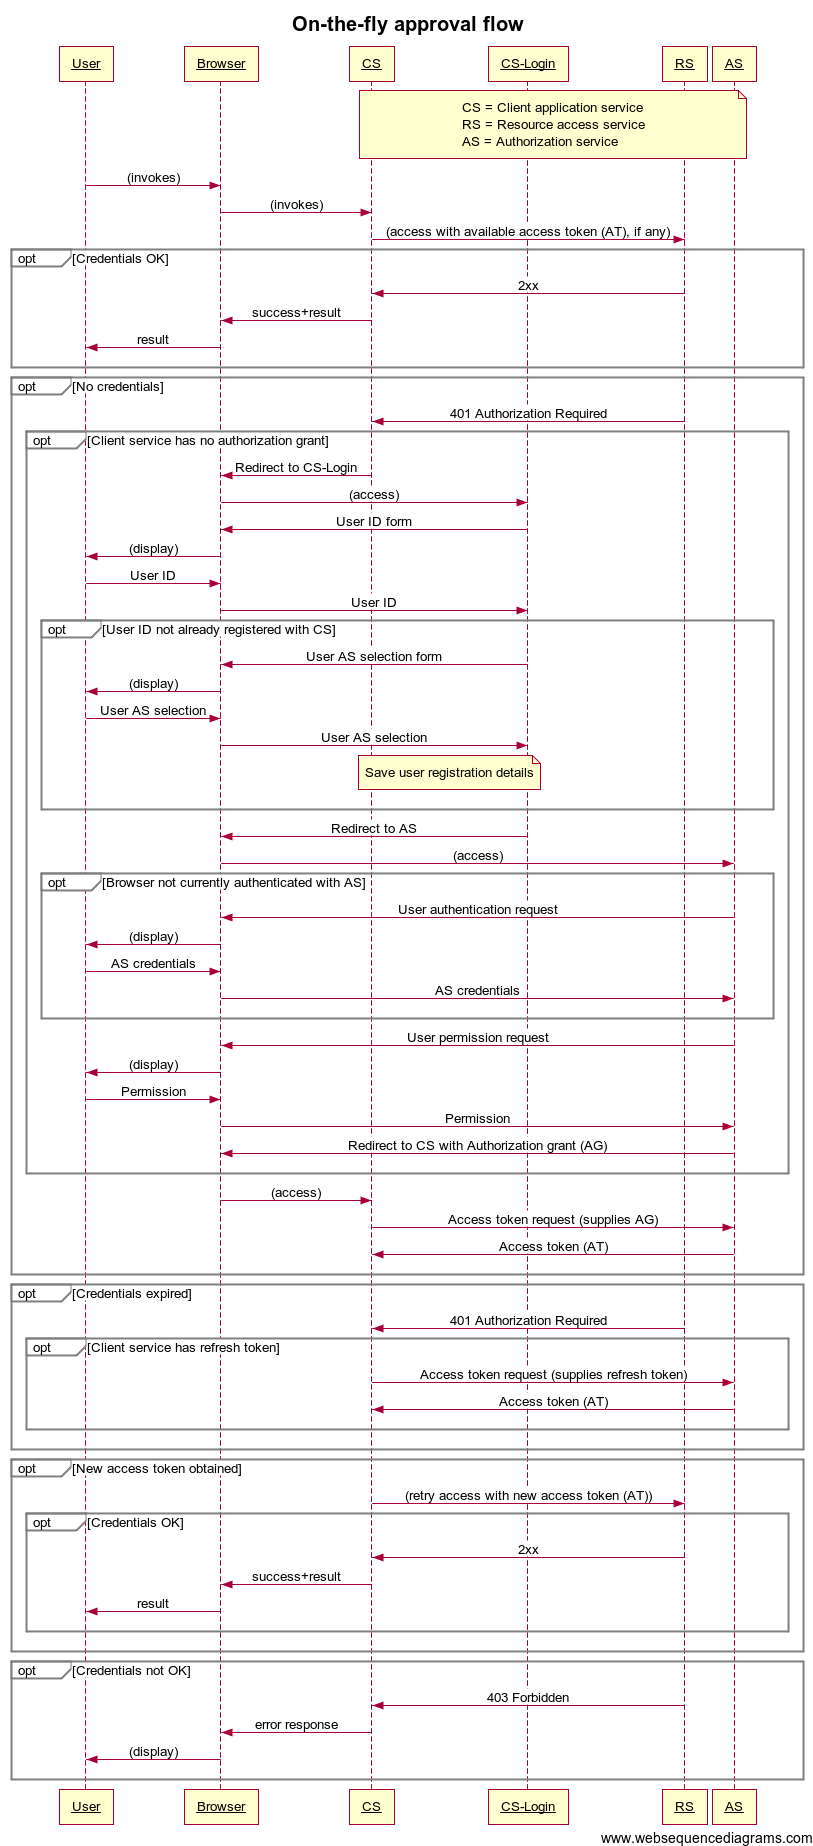
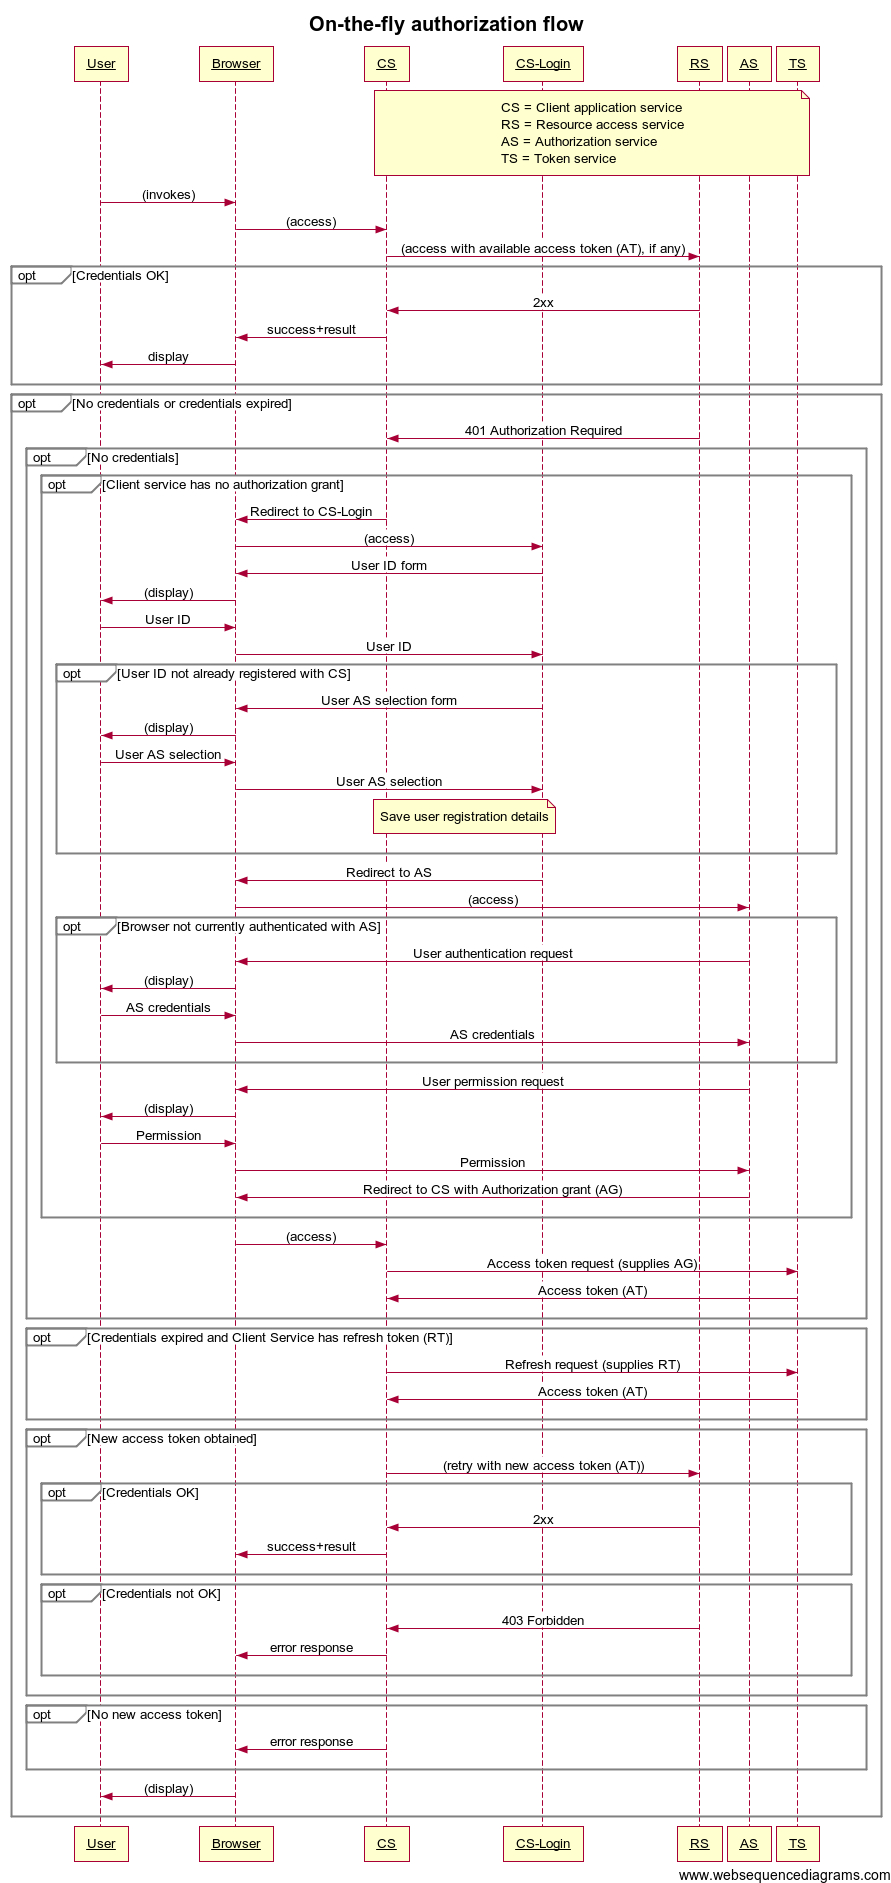
Add pre-authorization and revise on-the-fly flow sequence diagram

diff --git a/notes/authentication-and-authorization.md b/notes/authentication-and-authorization.md
@@ -1,5 +1,204 @@
+# On-the-fly authorization flow
+
+This sequence applies when access authorization is requested on-the-fly as a resource is accessed.  As such, it works only when the user is accessing the resource via a browser.  This is built on a standard OAuth2 flow combining authentication with authorization.
+
+![On-the-fly authorization flow sequence diagram](figures/on-the-fly-auth-flow.png "On-the-fly authorization flow")
+
+Sequence diagram definition - use with https://www.websequencediagrams.com/
+
+    title On-the-fly authorization flow
+
+    participant User
+    participant Browser
+    participant CS
+    participant CS-Login
+    participant RS
+    participant AS
+    participant TS
+
+    note over CS, RS, AS, TS
+      CS = Client application service
+      RS = Resource access service
+      AS = Authorization service
+      TS = Token service
+    end note
+
+    User->Browser: (invokes)
+    Browser->CS: (access)
+
+    CS->RS: (access with available access token (AT), if any)
+    opt Credentials OK
+      RS->CS: 2xx
+      CS->Browser: success+result
+      Browser->User: display
+    end
+
+    opt No credentials or credentials expired
+      RS->CS: 401 Authorization Required
+
+      opt No credentials
+        opt Client service has no authorization grant
+          CS->Browser: Redirect to CS-Login
+          Browser->CS-Login: (access)
+          CS-Login->Browser: User ID form
+          Browser->User: (display)
+          User->Browser: User ID
+          Browser->CS-Login: User ID
+          opt User ID not already registered with CS
+            CS-Login->Browser: User AS selection form
+            Browser->User: (display)
+            User->Browser: User AS selection
+            Browser->CS-Login: User AS selection
+            note over CS, CS-Login
+              Save user registration details
+            end note
+          end
+          CS-Login->Browser: Redirect to AS
+          Browser->AS: (access)
+          opt Browser not currently authenticated with AS
+            AS->Browser: User authentication request
+            Browser->User: (display)
+            User->Browser: AS credentials
+            Browser->AS: AS credentials
+          end
+          AS->Browser: User permission request
+          Browser->User: (display)
+          User->Browser: Permission
+          Browser->AS: Permission
+          AS->Browser: Redirect to CS with Authorization grant (AG)
+        end
+        Browser->CS: (access)
+        CS->TS: Access token request (supplies AG)
+        TS->CS: Access token (AT)
+      end
+
+      opt Credentials expired and Client Service has refresh token (RT)
+        CS->TS: Refresh request (supplies RT)
+        TS->CS: Access token (AT)
+      end
+
+      opt New access token obtained
+        CS->RS: (retry with new access token (AT))
+        opt Credentials OK
+          RS->CS: 2xx
+          CS->Browser: success+result
+        end
+        opt Credentials not OK
+          RS->CS: 403 Forbidden
+          CS->Browser: error response
+        end
+      end
+
+      opt No new access token
+        CS->Browser: error response
+      end
+
+    Browser->User: (display)
+    end
+
+
+# Pre-authorization flow
+
+This sequence applies when access authorization is established in advance of access to a resource.  The first part of the flow works only when the user is accessing the service using a browser.  The second part maty be cobnducted wityhout the user present.  This is built on a standard OAuth2 flow combining authentication with authorization.
+
+![Pre-authorization flow sequence diagram](figures/pre-authorization-flow.png "Pre-authorization flow")
+
+Sequence diagram definition - use with https://www.websequencediagrams.com/
+
+    title Pre-authorization flow
+
+    participant User
+    participant Browser
+    participant CS-Auth
+    participant CS-Login
+    participant CS
+    participant RS
+    participant AS
+    participant TS
+
+    note over CS-Auth, CS, RS, AS, TS
+      CS-Auth = Client pre-authorization service
+      CS = Client application service
+      RS = Resource access service
+      AS = Authorization service
+      TS = Token service
+    end note
+
+    User->Browser: (invokes)
+    Browser->CS-Auth: (access)
+
+    CS-Auth->Browser: Redirect to CS-Login
+    Browser->CS-Login: (access)
+    CS-Login->Browser: User ID form
+    Browser->User: (display)
+    User->Browser: User ID
+    Browser->CS-Login: User ID
+    opt User ID not already registered with CS
+      CS-Login->Browser: User AS selection form
+      Browser->User: (display)
+      User->Browser: User AS selection
+      Browser->CS-Login: User AS selection
+      note over CS-Auth, CS-Login
+        Save user registration details
+      end note
+    end
+    CS-Login->Browser: Redirect to AS
+    Browser->AS: (access)
+    opt Browser not currently authenticated with AS
+      AS->Browser: User authentication request
+      Browser->User: (display)
+      User->Browser: AS credentials
+      Browser->AS: AS credentials
+    end
+    AS->Browser: User permission request form
+    Browser->User: (display)
+    User->Browser: Permission
+    Browser->AS: Permission
+    AS->Browser: Redirect to CS-Auth with Authorization Grant (AG)
+    Browser->CS-Auth: (access)
+    CS-Auth->CS: AG (and client secret)
+
+    note over CS-Login, CS-Auth, CS, RS, AS
+      CS may be a non-browser application.
+      Access proceeds without requiring the user's presence
+    end note
+
+    CS->RS: (access with available access token (AT), if any)
+    opt Credentials OK
+      RS->CS: 2xx
+    end
+
+    opt No credentials or credentials expired
+      RS->CS: 401 Authorization Required
+
+      opt No credentials (AT) and have Authorization  Grant (AG)
+        CS->TS: Access token request (supplies AG)
+        TS->CS: Access token (AT)
+      end
+
+      opt Credentials expired and have refesh token
+        CS->TS: Access token request (supplies refresh token)
+        TS->CS: Access token (AT)
+      end
+
+      CS->RS: (retry access with access token (AT))
+
+      opt Credentials OK
+        RS->CS: 2xx
+      end
+
+      opt Credentials not OK
+        RS->CS: 403 Forbidden
+      end
+
+    end
+
+
+----
 
 # Approval flow
+
+@@TODO: review or remove?
 
 This flow is activated when the client needs to establish the identity and approval of a user for obtaining subsequent authorization tokens.  The identity determination uses OpenID connect mechanisms, but does not result in grant of any specific permissions as these are handled separately by the authorization flow.
 
@@ -56,6 +255,8 @@ Sequence diagram definition - use with https://www.websequencediagrams.com/
 
 
 # Authorization flow
+
+@@TODO Review or remove
 
 This flow is activated when the client needs to obtain specific access 
 permissions to a resource.  Unlike standard OAuth2 flows, this phase is 
@@ -120,100 +321,3 @@ This flow should be the same as the corresponding phase of the OAuth2 flows.
 
     Client->Resource svc: request + access token
     Resource svc->Client: (data or response)
-
-
-# On-the-fly authorization flow
-
-This sequence applies when access authorization is requested on-the-fly as a resource is accessed.  As such, it works only when the user is accessing the resource via a browser.
-
-![On-the-fly authorization flow sequence diagram](figures/on-the-fly-auth-flow.png "On-the-fly authorization flow")
-
-Sequence diagram definition - use with https://www.websequencediagrams.com/
-
-    title On-the-fly approval flow
-
-    participant User
-    participant Browser
-    participant CS
-    participant CS-Login
-    participant RS
-    participant AS
-
-    note over CS, RS, AS
-      CS = Client application service
-      RS = Resource access service
-      AS = Authorization service
-    end note
-
-    User->Browser: (invokes)
-    Browser->CS: (invokes)
-
-    CS->RS: (access with available access token (AT), if any)
-    opt Credentials OK
-      RS->CS: 2xx
-      CS->Browser: success+result
-      Browser->User: result
-    end
-
-    opt No credentials
-      RS->CS: 401 Authorization Required
-      opt Client service has no authorization grant
-        CS->Browser: Redirect to CS-Login
-        Browser->CS-Login: (access)
-        CS-Login->Browser: User ID form
-        Browser->User: (display)
-        User->Browser: User ID
-        Browser->CS-Login: User ID
-        opt User ID not already registered with CS
-          CS-Login->Browser: User AS selection form
-          Browser->User: (display)
-          User->Browser: User AS selection
-          Browser->CS-Login: User AS selection
-          note over CS, CS-Login
-            Save user registration details
-          end note
-        end
-        CS-Login->Browser: Redirect to AS
-        Browser->AS: (access)
-        opt Browser not currently authenticated with AS
-          AS->Browser: User authentication request
-          Browser->User: (display)
-          User->Browser: AS credentials
-          Browser->AS: AS credentials
-        end
-        AS->Browser: User permission request
-        Browser->User: (display)
-        User->Browser: Permission
-        Browser->AS: Permission
-        AS->Browser: Redirect to CS with Authorization grant (AG)
-      end
-      Browser->CS: (access)
-      CS->AS: Access token request (supplies AG)
-      AS->CS: Access token (AT)
-    end
-
-    opt Credentials expired
-      RS->CS: 401 Authorization Required
-      opt Client service has refresh token
-        CS->AS: Access token request (supplies refresh token)
-        AS->CS: Access token (AT)
-      end
-    end
-
-    opt New access token obtained
-      CS->RS: (retry access with new access token (AT))
-      opt Credentials OK
-        RS->CS: 2xx
-        CS->Browser: success+result
-        Browser->User: result
-      end
-    end
-
-    opt Credentials not OK
-      RS->CS: 403 Forbidden
-      CS->Browser: error response
-      Browser->User: (display)
-    end
-
-
-
